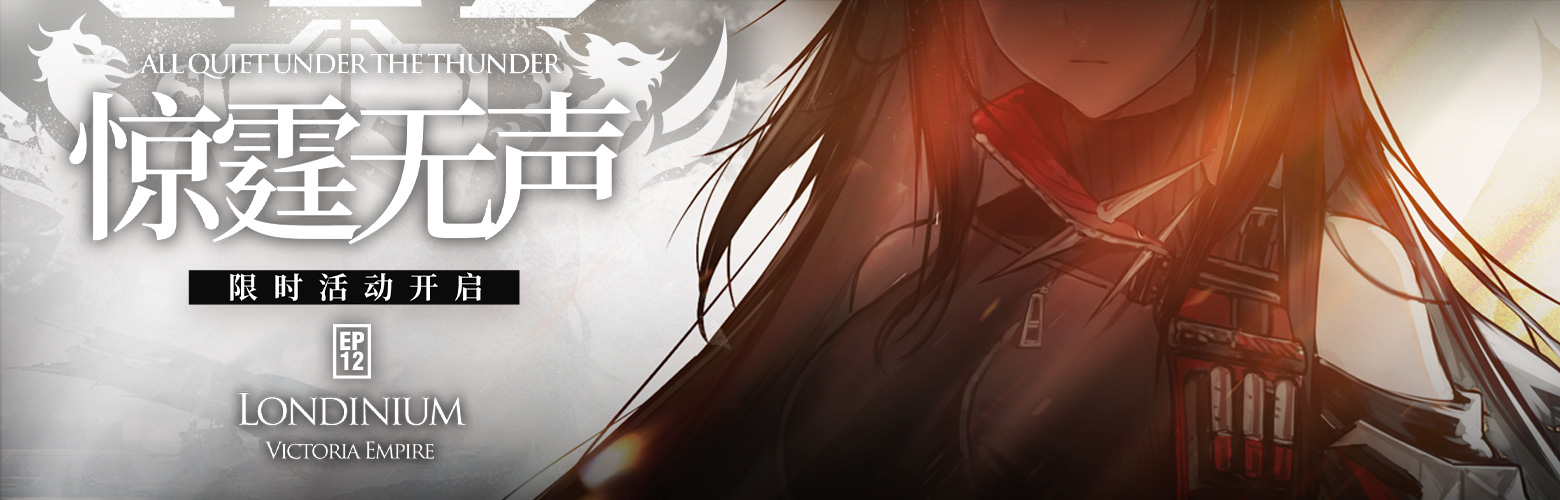
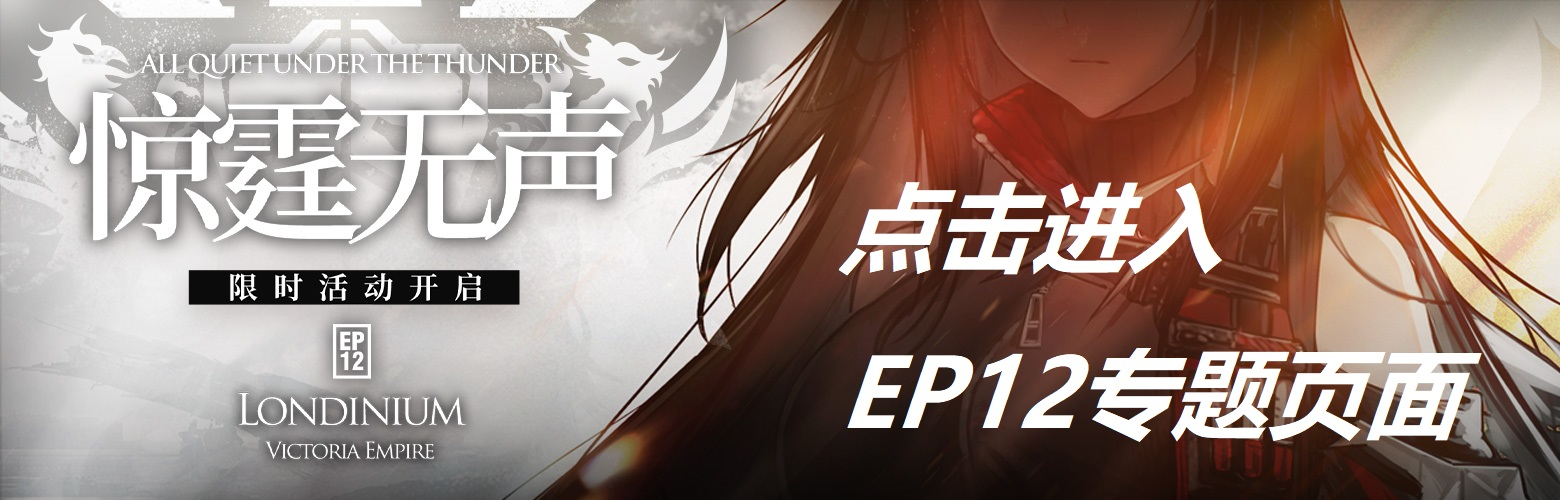
newchaper模块的改进，添加链接到ep12，解除隐藏

Changed region(s): [[0.5231, 0.69, 0.9538, 0.9], [0.5231, 0.36, 0.8, 0.57]]

diff --git a/src/components/newChapter.vue b/src/components/newChapter.vue
@@ -16,15 +16,16 @@
           </div>
         </div>
       </div>
-      <div class="op_warning">
+      <!-- <div class="op_warning">
         新章节开放期间样本量阈值临时下调，刷图时请注意甄别<br>
         小样活动约可提供25%额外效率
-      </div>
+      </div> -->
       <!-- 头图 -->
-      <div id="ep12_pic">
-        <img src="/img/temp/ep12.jpg">
-      </div>
-
+      <!-- <div> -->
+        <a id="ep12_pic" href="/ep12" style="margin: 4px 4px 0px 4px;text-align: center;">
+          <img src="/img/temp/ep12.jpg" style="width: 300px;display:block;margin: auto;border-radius: 12px;">
+        </a>
+      <!-- </div> -->
       <div class="ep12_content" style="display:flex;flex-wrap:wrap;">
         <div class="ep12_half" id="ep12_left">
           <table class="popup_table">

diff --git a/src/pages/index.page.vue b/src/pages/index.page.vue
@@ -1,6 +1,6 @@
 <template>
   <div id="indexDiv" :class="pageTheme" style="max-width: 1080px; margin: auto">
-<!--    <ep12/>-->
+   <ep12/>
     <div class="title_null"></div>
     <stage />
     <div class="title_null"></div>
